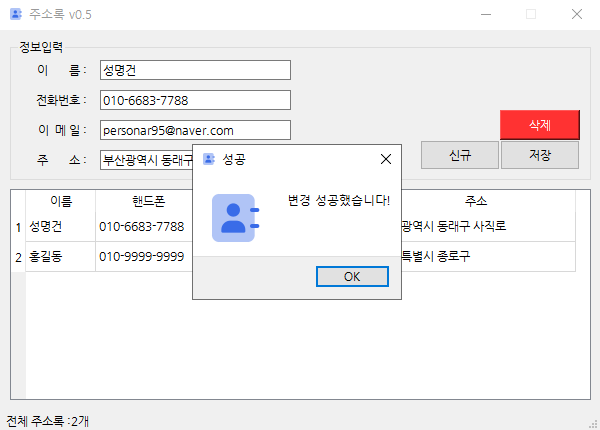
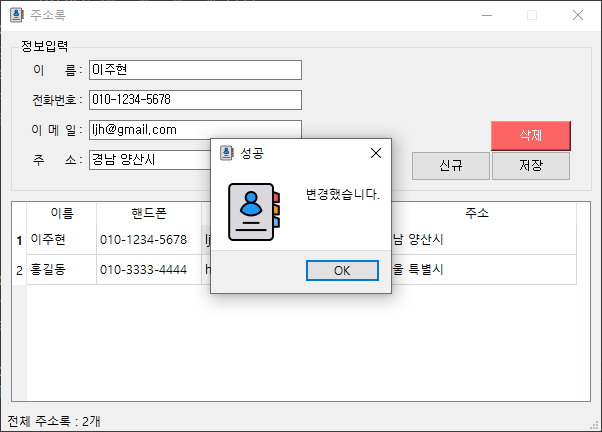
사진, 메세지박스 멘트 변경

diff --git a/part1/studyPyQt/mp05_addressBookApp.py b/part1/studyPyQt/mp05_addressBookApp.py
@@ -68,6 +68,8 @@ class qtApp(QMainWindow):
                 query = '''INSERT INTO addressbook (FullName, PhoneNum, Email, Address)
                             VALUES (%s, %s, %s, %s)'''
                 cur.execute(query, (fullName, phoneNum, email, address))
+                # 저장성공 메세지박스
+                QMessageBox.about(self, '성공', '저장 성공했습니다.')
             else:   # 수정 
                 # UPDATE 쿼리문
                 query = '''UPDATE addressbook
@@ -77,12 +79,13 @@ class qtApp(QMainWindow):
                                 , Address = %s
                             WHERE Idx = %s;'''  
                 cur.execute(query, (fullName, phoneNum, email, address, self.curIdx))
+                # 수정 성공 메세지박스
+                QMessageBox.about(self, '성공', '변경했습니다.')
 
             self.conn.commit()
             self.conn.close()
 
-            # 저장성공 메세지박스
-            QMessageBox.about(self, '성공', '저장 성공했습니다.')
+            
             # QTableWidget 새 데이터 출력 : 새로 DB 불러오기
             self.initDB()
             # 입력창 내용 초기화
